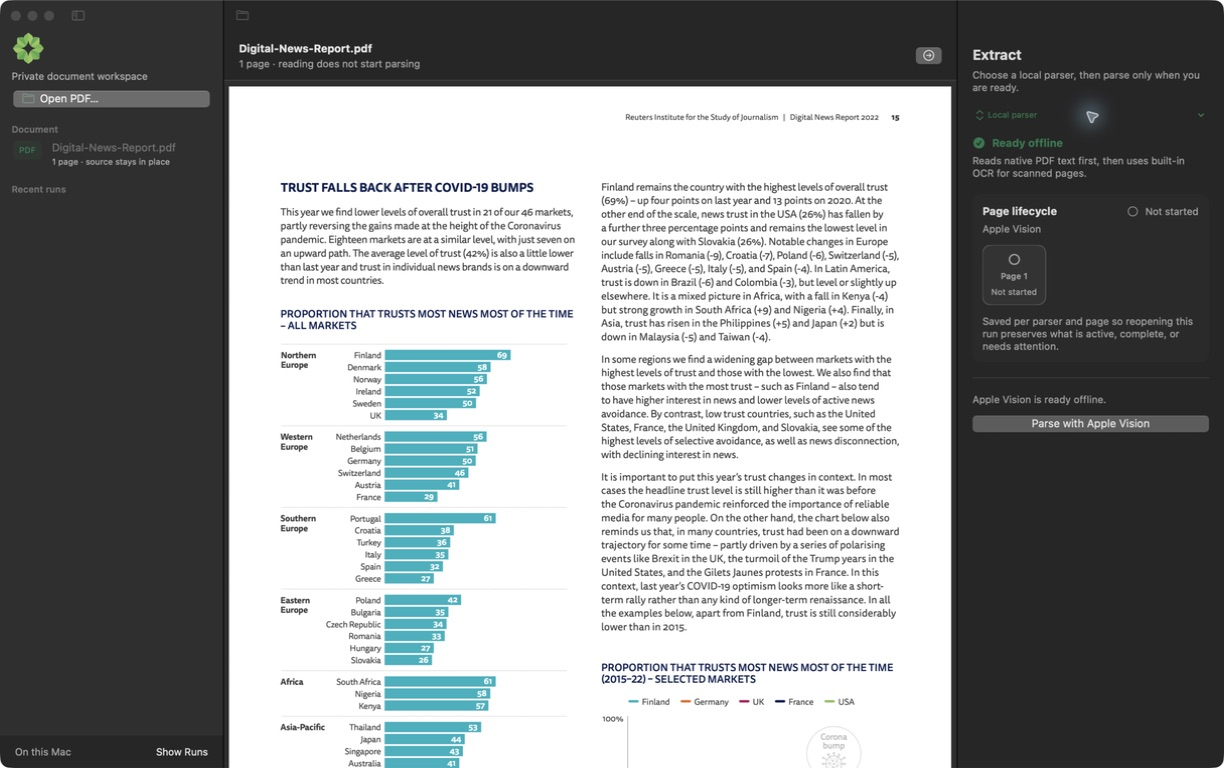
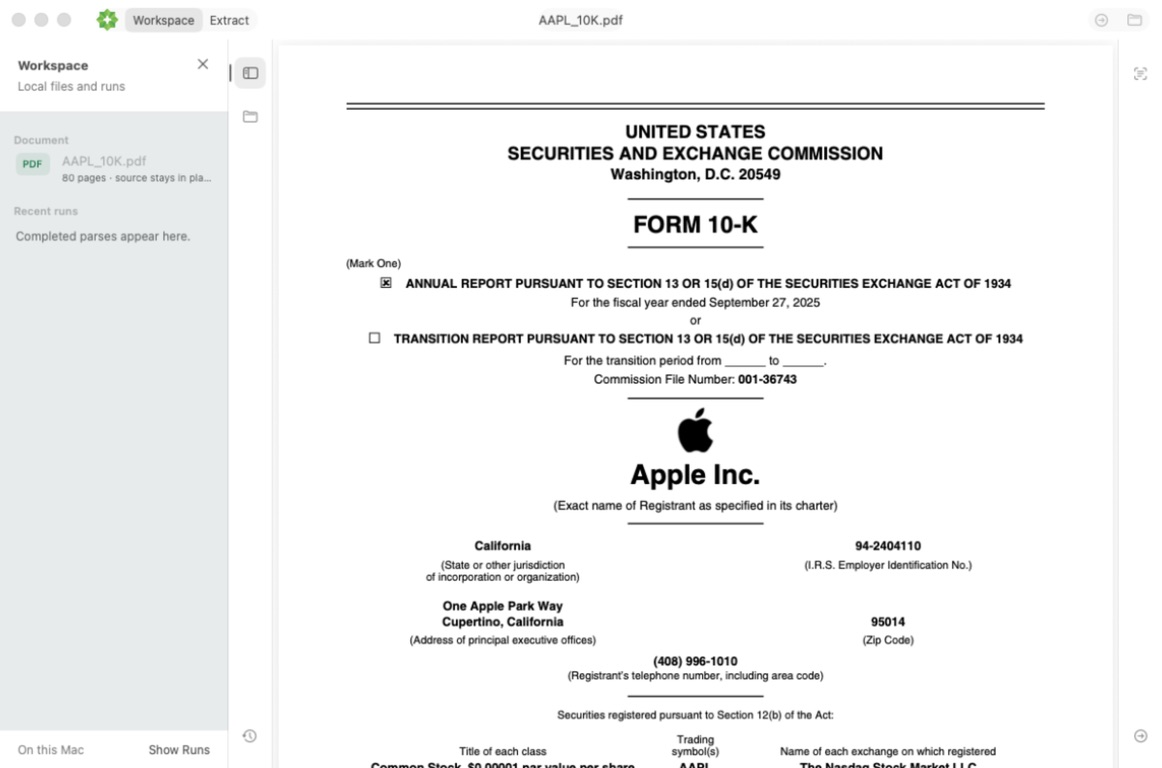
[D.6.3] Close out desktop RC.4 release

diff --git a/docs/releases/RELEASE_NOTES-v1.0.0-rc.4.md b/docs/releases/RELEASE_NOTES-v1.0.0-rc.4.md
@@ -1,5 +1,9 @@
 # okraPDF Desktop v1.0.0-rc.4
 
+> **Shipped 2026-08-05.** The signed and notarized prerelease is available at
+> [`desktop-v1.0.0-rc.4`](https://github.com/okra-project/desktop/releases/tag/desktop-v1.0.0-rc.4),
+> and build `202608052008` is live in the signed Sparkle appcast.
+
 This release candidate gives the local PDF reader a document-first workspace.
 The source PDF stays visually central while local files, run history, and
 extraction controls remain close at hand without becoming permanent wide
@@ -93,26 +97,39 @@ explicit Parse behavior, output formats, and the macOS 13 minimum are unchanged.
 - Both packaging smoke tests passed against the rebuilt local candidate:
   resource-isolated app startup and quarantined-DMG launch through
   LaunchServices.
-- The exact tagged artifact must still pass Developer ID signing, hardened
-  runtime, notarization, stapling, Gatekeeper, DMG verification, quarantined
-  LaunchServices launch, checksum, and signed-appcast automation.
+- Release workflow
+  [`31042648891`](https://github.com/okra-project/desktop/actions/runs/31042648891)
+  passed Developer ID signing, hardened runtime, app and DMG notarization,
+  stapling, Gatekeeper, packaged launch, checksum, publication, and signed
+  appcast generation for build `202608052008`.
+- The exact GitHub-downloaded DMG independently passed its published checksum,
+  `hdiutil verify`, app and DMG staple validation, strict nested-code signature
+  verification, Gatekeeper, embedded version/build inspection, and a
+  quarantined LaunchServices launch. Its SHA-256 is
[1 lines of base64/hex data omitted]
+- The signed app was visually inspected with the empty reader, a loaded public
+  filing, Workspace, and Extract states. The identical candidate code had
+  already passed light, dark, wide, and compact layout inspection before tag.
+- Signed appcast PR
+  [#69](https://github.com/okra-project/desktop/pull/69) passed `macos-checks`
+  and merged to protected `main` at `a09ebf2`.
 - Manual release approval requires the layout checks above plus the retained
   offline Apple Vision, invalid-input, source-box, clean-install, and signed
   in-place update regressions in `RELEASE_CHECKLIST.md`.
 
 ## Rollout
 
-Merge the tested implementation to `main`, then create the immutable annotated
-tag `desktop-v1.0.0-rc.4`. Keep the GitHub release marked as a prerelease and
-merge the generated signed-appcast branch only after its required
-`macos-checks` gate passes.
+Implementation PR [#68](https://github.com/okra-project/desktop/pull/68)
+merged to protected `main` at `cec9957`; that exact commit was tagged
+`desktop-v1.0.0-rc.4`. The GitHub prerelease is published, and its generated
+signed-appcast branch passed `macos-checks` before merging through PR #69.
 
 ## Rollback
 
-Keep RC.3 available as the last published candidate. If RC.4 regresses, direct
-testers to the RC.3 DMG, avoid moving or reusing the RC.4 tag, and fix forward
-under a new release-candidate version. RC.3 and RC.4 retain their run histories
-in their respective application-support folders.
+RC.3 remains available as the previous candidate. If RC.4 regresses, direct
+testers to the RC.3 DMG, never move or reuse the RC.4 tag, and fix forward under
+a new release-candidate version. RC.3 and RC.4 retain their run histories in
+their respective application-support folders.
 
 ## Owner
 

diff --git a/README.md b/README.md
@@ -11,13 +11,12 @@
   into structured local output. No account, document library, or cloud upload.
 </p>
 
-The next RC.4 candidate introduces a document-first workspace: the native
-reader stays mounted in the center while compact rails and collapsible local
-Workspace and Extract panels keep context close without permanently narrowing
-the PDF.
+RC.4 introduces a document-first workspace: the native reader stays mounted in
+the center while compact rails and collapsible local Workspace and Extract
+panels keep context close without permanently narrowing the PDF.
 
 <p align="center">
-  <a href="https://github.com/okra-project/desktop/releases/tag/desktop-v1.0.0-rc.3">
+  <a href="https://github.com/okra-project/desktop/releases/tag/desktop-v1.0.0-rc.4">
     <img alt="Download for macOS" src="https://img.shields.io/badge/download-macOS%2013%2B-2f855a">
   </a>
   <a href="https://github.com/okra-project/desktop/releases">
@@ -29,12 +28,12 @@ the PDF.
 </p>
 
 <p align="center">
-  <a href="https://github.com/okra-project/desktop/releases/tag/desktop-v1.0.0-rc.3">Download</a> ·
+  <a href="https://github.com/okra-project/desktop/releases/tag/desktop-v1.0.0-rc.4">Download</a> ·
   <a href="docs/releases/README.md">Release notes</a> ·
   <a href="https://github.com/okra-project/desktop/issues/new">Report an issue</a>
 </p>
 
-![okraPDF reading a public report with Apple Vision ready for an explicit local parse](.github/assets/okra-reader-overview.png)
+![okraPDF reading a public SEC filing in the RC.4 document-first workspace](.github/assets/okra-reader-overview.png)
 
 ## Read first. Parse when you choose.
 
@@ -95,13 +94,13 @@ setup. Ollama remains responsible for installing and storing Ollama models.
 
 ## Download
 
-`desktop-v1.0.0-rc.3` is the current public release candidate for Apple-silicon
+`desktop-v1.0.0-rc.4` is the current public release candidate for Apple-silicon
 Macs running macOS 13 or later.
 
-1. Download `Okra-1.0.0-rc.3.dmg` from the
-   [v1.0.0-rc.3 release](https://github.com/okra-project/desktop/releases/tag/desktop-v1.0.0-rc.3).
+1. Download `Okra-1.0.0-rc.4.dmg` from the
+   [v1.0.0-rc.4 release](https://github.com/okra-project/desktop/releases/tag/desktop-v1.0.0-rc.4).
 2. Optionally download the adjacent checksum and run
-   `shasum -a 256 -c Okra-1.0.0-rc.3.dmg.sha256`.
+   `shasum -a 256 -c Okra-1.0.0-rc.4.dmg.sha256`.
 3. Open the DMG, drag **Okra** to **Applications**, and eject the DMG.
 4. Open **Okra** from Applications. The app and DMG are Developer ID signed,
    hardened, notarized by Apple, and stapled for normal Gatekeeper opening.
@@ -123,7 +122,7 @@ swift build
 To create a local `.app` and DMG:
 
 ```bash
-./scripts/build-dmg.sh 1.0.0-rc.3
+./scripts/build-dmg.sh 1.0.0-rc.4
 ```
 
 Local packages are ad-hoc signed. The release workflow supplies the Developer

diff --git a/RELEASE_CHECKLIST.md b/RELEASE_CHECKLIST.md
@@ -199,8 +199,10 @@ friend round on real Baidu setup/inference.
 - [x] Public `desktop-v1.0.0-rc.3` prerelease with dark-mode source-box visibility fix (2026-08-03)
 - [x] RC.3 appcast branch passes `macos-checks` and merges to protected `main` (2026-08-03)
 - [ ] Exact RC.3 is re-downloaded, verified, installed, and dark-mode box visibility confirmed
-- [ ] Public `desktop-v1.0.0-rc.4` prerelease with the D.6.3 document-first workspace
-- [ ] RC.4 appcast branch passes `macos-checks` and merges to protected `main`
-- [ ] Exact RC.4 is re-downloaded, checksum-verified, installed, and dogfooded in light and dark appearances
+- [x] Public `desktop-v1.0.0-rc.4` prerelease with the D.6.3 document-first workspace (2026-08-05)
+- [x] RC.4 appcast branch passes `macos-checks` and merges to protected `main` (PR #69, 2026-08-05)
+- [x] Exact RC.4 is re-downloaded and passes checksum, disk-image integrity, Developer ID, hardened-runtime, notarization/stapling, Gatekeeper, embedded version/build, and quarantined LaunchServices checks (2026-08-05)
+- [x] Exact signed RC.4 empty, loaded-document, Workspace, and Extract layouts are inspected in light appearance; the identical candidate code passes light, dark, wide, and compact inspection before tag (2026-08-05)
+- [ ] Exact RC.4 is installed into Applications and dogfooded in dark appearance
 - [ ] Friend-equivalent clean-Mac install and Apple Vision extraction recorded on issue #47
 - [ ] Signed in-place **Install and Relaunch** update evidence recorded on issue #39

diff --git a/LAUNCH.md b/LAUNCH.md
@@ -66,7 +66,8 @@ swift test
 ./scripts/build-dmg.sh 1.0.0-rc.4
 ```
 
-Treat RC.4 as a release candidate, not the stable release. Do not recommend
-its link until the exact candidate passes the document-first layout regression,
-friend-core regression, second-Mac install, and signed in-place update gates in
-`RELEASE_CHECKLIST.md`.
+RC.4 is the current public release candidate, not the stable release. It is
+appropriate for direct-download and in-app-update testing after passing the
+document-first layout and signed-artifact gates. Do not call it stable until the
+remaining friend-core, second-Mac install, and signed in-place update gates in
+`RELEASE_CHECKLIST.md` are recorded.

diff --git a/docs/releases/README.md b/docs/releases/README.md
@@ -9,6 +9,7 @@ language that accompanied their original release.
 
 ## v1.0 release candidates
 
+- [v1.0.0-rc.4](RELEASE_NOTES-v1.0.0-rc.4.md)
 - [v1.0.0-rc.3](RELEASE_NOTES-v1.0.0-rc.3.md)
 - [v1.0.0-rc.2](RELEASE_NOTES-v1.0.0-rc.2.md)
 - [v1.0.0-rc.1](RELEASE_NOTES-v1.0.0-rc.1.md)
